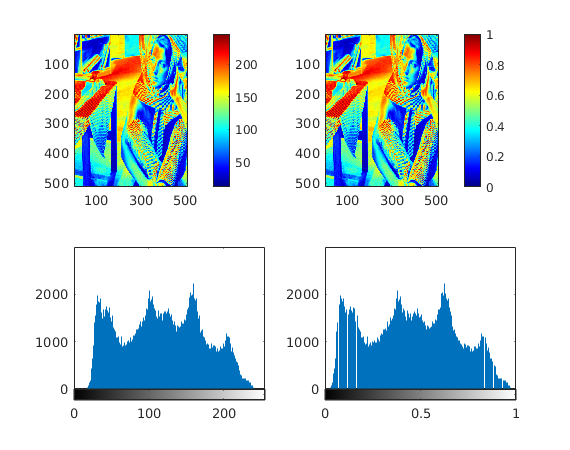
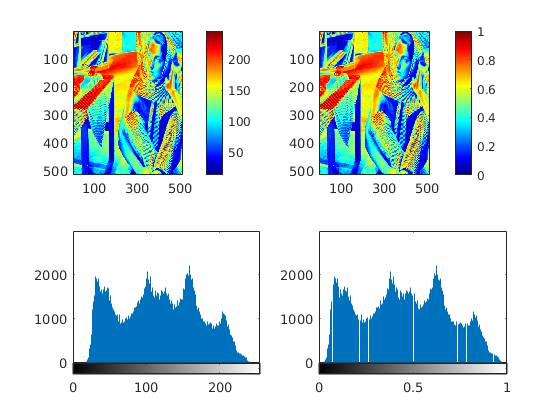
GHE Done

diff --git a/assignment1_GrayTrans/2/code/html/myMainScript.html b/assignment1_GrayTrans/2/code/html/myMainScript.html
@@ -6,7 +6,7 @@
    <!--
 This HTML was auto-generated from MATLAB code.
 To make changes, update the MATLAB code and republish this document.
-      --><title>Q2. Gray Scale Transforms on Images</title><meta name="generator" content="MATLAB 8.6"><link rel="schema.DC" href="http://purl.org/dc/elements/1.1/"><meta name="DC.date" content="2017-07-29"><meta name="DC.source" content="myMainScript.m"><style type="text/css">
+      --><title>Q2. Gray Scale Transforms on Images</title><meta name="generator" content="MATLAB 8.6"><link rel="schema.DC" href="http://purl.org/dc/elements/1.1/"><meta name="DC.date" content="2017-07-30"><meta name="DC.source" content="myMainScript.m"><style type="text/css">
 html,body,div,span,applet,object,iframe,h1,h2,h3,h4,h5,h6,p,blockquote,pre,a,abbr,acronym,address,big,cite,code,del,dfn,em,font,img,ins,kbd,q,s,samp,small,strike,strong,sub,sup,tt,var,b,u,i,center,dl,dt,dd,ol,ul,li,fieldset,form,label,legend,table,caption,tbody,tfoot,thead,tr,th,td{margin:0;padding:0;border:0;outline:0;font-size:100%;vertical-align:baseline;background:transparent}body{line-height:1}ol,ul{list-style:none}blockquote,q{quotes:none}blockquote:before,blockquote:after,q:before,q:after{content:'';content:none}:focus{outine:0}ins{text-decoration:none}del{text-decoration:line-through}table{border-collapse:collapse;border-spacing:0}
 
 html { min-height:100%; margin-bottom:1px; }
@@ -66,7 +66,7 @@ table td { padding:7px 5px; text-align:left; vertical-align:top; border:1px soli
 
 
 
-  </style></head><body><div class="content"><h1>Q2. Gray Scale Transforms on Images</h1><!--introduction--><p>Simple gray scale transforms on images.</p><!--/introduction--><h2>Contents</h2><div><ul><li><a href="#1">A. Linear Contrast Stretching</a></li></ul></div><h2>A. Linear Contrast Stretching<a name="1"></a></h2><pre class="language-matlab">
+  </style></head><body><div class="content"><h1>Q2. Gray Scale Transforms on Images</h1><!--introduction--><p>Simple gray scale transforms on images. Dhruv Ilesh Shah, Dhanvi Sreenivasan and Bhavesh Thakkar</p><!--/introduction--><h2>Contents</h2><div><ul><li><a href="#1">A. Linear Contrast Stretching</a></li><li><a href="#2">B. Global Histogram Equalization</a></li></ul></div><h2>A. Linear Contrast Stretching<a name="1"></a></h2><pre class="language-matlab">
 <span class="keyword">function</span> img = myLinearContrastStretching(org)
 <span class="comment">% Contrast Enhancement using Linear Contrast Stretching</span>
 <span class="comment">% Maps from current histogram to extended histogram, any aspect ratio</span>
@@ -104,11 +104,82 @@ subplot(2, 2, 1), imshow(org)
 subplot(2, 2, 2), imshow(img)
 subplot(2, 2, 3), imhist(org)
 subplot(2, 2 ,4), imhist(img)
-</pre><pre class="codeoutput">Elapsed time is 0.006925 seconds.
-</pre><img vspace="5" hspace="5" src="myMainScript_01.png" alt=""> <img vspace="5" hspace="5" src="myMainScript_02.png" alt=""> <p class="footer"><br><a href="http://www.mathworks.com/products/matlab/">Published with MATLAB&reg; R2015b</a><br></p></div><!--
+</pre><pre class="codeoutput">Elapsed time is 0.004583 seconds.
+</pre><img vspace="5" hspace="5" src="myMainScript_01.png" alt=""> <img vspace="5" hspace="5" src="myMainScript_02.png" alt=""> <h2>B. Global Histogram Equalization<a name="2"></a></h2><pre class="language-matlab">
+<span class="keyword">function</span> img = myHE(org)
+<span class="comment">% Performs global histogram equalization on the input image</span>
+
+mycdf = zeros(256, size(org, 3)); <span class="comment">% Treating channels independently</span>
+<span class="keyword">for</span> i = 1:size(org, 3)
+    mycdf(:, i) = cumsum(imhist(org(:,:,i))) / numel(org(:,:,1));
+<span class="keyword">end</span>
+
+<span class="comment">%img = arrayfun(mycdf(y, x), org);</span>
+<span class="comment">% arrayfun is not sped up by JIT compilation, and considerably slower in</span>
+<span class="comment">% this simple case, compared to naive loops. (ambiguous)</span>
+
+img = zeros(size(org)); <span class="comment">% Pre-allocating</span>
+<span class="keyword">for</span> k = 1:size(org, 3)
+    <span class="comment">% Computing independently for each channel</span>
+    cdfi = mycdf(:,k);
+    img(:,:,k) = cdfi(org(:,:,k) + 1);
+<span class="keyword">end</span>
+
+</pre><pre class="codeinput"><span class="comment">% Evaluating for given grayscale images:</span>
+org = imread(<span class="string">'../data/barbara.png'</span>);
+tic;
+img = myHE(org);
+toc;
+
+figure;
+colormap(jet(200));
+subplot(2, 2, 1), imagesc(org);
+colorbar;
+subplot(2, 2, 2), imagesc(img);
+colorbar;
+subplot(2, 2, 3), imhist(org);
+subplot(2, 2, 4), imhist(img);
+
+
+org = imread(<span class="string">'../data/TEM.png'</span>);
+tic;
+img = myHE(org);
+toc;
+
+figure;
+colormap(jet(200));
+subplot(2, 2, 1), imagesc(org);
+colorbar;
+subplot(2, 2, 2), imagesc(img);
+colorbar;
+subplot(2, 2, 3), imhist(org);
+subplot(2, 2, 4), imhist(img);
+
+<span class="comment">% Since the histogram for this image was already quite wide, we are unable</span>
+<span class="comment">% to appreciate the function of the algorithm. Let's look at this image instead.</span>
+org = imread(<span class="string">'satmap.png'</span>);
+img = myHE(org);
+
+figure
+subplot(2, 2, 1), imshow(org)
+subplot(2, 2, 2), imshow(img)
+subplot(2, 2, 3), imhist(org)
+subplot(2, 2 ,4), imhist(img)
+
+<span class="comment">% The function is highly modular and can be extended to RGB images as follows</span>
+org = imread(<span class="string">'../data/canyon.png'</span>);
+img = myHE(org);
+
+figure
+subplot(1,2,1), imshow(org);
+subplot(1,2,2), imshow(img);
+</pre><pre class="codeoutput">Elapsed time is 0.002437 seconds.
+Elapsed time is 0.003621 seconds.
+</pre><img vspace="5" hspace="5" src="myMainScript_03.png" alt=""> <img vspace="5" hspace="5" src="myMainScript_04.png" alt=""> <img vspace="5" hspace="5" src="myMainScript_05.png" alt=""> <img vspace="5" hspace="5" src="myMainScript_06.png" alt=""> <p class="footer"><br><a href="http://www.mathworks.com/products/matlab/">Published with MATLAB&reg; R2015b</a><br></p></div><!--
 ##### SOURCE BEGIN #####
 %% Q2. Gray Scale Transforms on Images
 % Simple gray scale transforms on images.
+% Dhruv Ilesh Shah, Dhanvi Sreenivasan and Bhavesh Thakkar
 
 %% A. Linear Contrast Stretching
 % <include>myLinearContrastStretching.m</include>
@@ -139,5 +210,56 @@ subplot(2, 2, 2), imshow(img)
 subplot(2, 2, 3), imhist(org)
 subplot(2, 2 ,4), imhist(img)
 
+%% B. Global Histogram Equalization
+% <include>myHE.m</include>
+
+% Evaluating for given grayscale images:
+org = imread('../data/barbara.png');
+tic;
+img = myHE(org);
+toc;
+
+figure;
+colormap(jet(200));
+subplot(2, 2, 1), imagesc(org);
+colorbar;
+subplot(2, 2, 2), imagesc(img);
+colorbar;
+subplot(2, 2, 3), imhist(org);
+subplot(2, 2, 4), imhist(img);
+
+
+org = imread('../data/TEM.png');
+tic;
+img = myHE(org);
+toc;
+
+figure;
+colormap(jet(200));
+subplot(2, 2, 1), imagesc(org);
+colorbar;
+subplot(2, 2, 2), imagesc(img);
+colorbar;
+subplot(2, 2, 3), imhist(org);
+subplot(2, 2, 4), imhist(img);
+
+% Since the histogram for this image was already quite wide, we are unable
+% to appreciate the function of the algorithm. Let's look at this image instead.
+org = imread('satmap.png');
+img = myHE(org);
+
+figure
+subplot(2, 2, 1), imshow(org)
+subplot(2, 2, 2), imshow(img)
+subplot(2, 2, 3), imhist(org)
+subplot(2, 2 ,4), imhist(img)
+
+% The function is highly modular and can be extended to RGB images as follows
+org = imread('../data/canyon.png');
+img = myHE(org);
+
+figure
+subplot(1,2,1), imshow(org);
+subplot(1,2,2), imshow(img);
 ##### SOURCE END #####
 --></body></html>

diff --git a/assignment1_GrayTrans/2/code/myMainScript.m b/assignment1_GrayTrans/2/code/myMainScript.m
@@ -1,5 +1,6 @@
 %% Q2. Gray Scale Transforms on Images
 % Simple gray scale transforms on images.
+% Dhruv Ilesh Shah, Dhanvi Sreenivasan and Bhavesh Thakkar
 
 %% A. Linear Contrast Stretching
 % <include>myLinearContrastStretching.m</include>
@@ -29,3 +30,55 @@ subplot(2, 2, 1), imshow(org)
 subplot(2, 2, 2), imshow(img)
 subplot(2, 2, 3), imhist(org)
 subplot(2, 2 ,4), imhist(img)
+
+%% B. Global Histogram Equalization
+% <include>myHE.m</include>
+
+% Evaluating for given grayscale images:
+org = imread('../data/barbara.png');
+tic;
+img = myHE(org);
+toc;
+
+figure;
+colormap(jet(200));
+subplot(2, 2, 1), imagesc(org);
+colorbar;
+subplot(2, 2, 2), imagesc(img);
+colorbar;
+subplot(2, 2, 3), imhist(org);
+subplot(2, 2, 4), imhist(img);
+
+
+org = imread('../data/TEM.png');
+tic;
+img = myHE(org);
+toc;
+
+figure;
+colormap(jet(200));
+subplot(2, 2, 1), imagesc(org);
+colorbar;
+subplot(2, 2, 2), imagesc(img);
+colorbar;
+subplot(2, 2, 3), imhist(org);
+subplot(2, 2, 4), imhist(img);
+
+% Since the histogram for this image was already quite wide, we are unable
+% to appreciate the function of the algorithm. Let's look at this image instead.
+org = imread('satmap.png');
+img = myHE(org);
+
+figure
+subplot(2, 2, 1), imshow(org)
+subplot(2, 2, 2), imshow(img)
+subplot(2, 2, 3), imhist(org)
+subplot(2, 2 ,4), imhist(img)
+
+% The function is highly modular and can be extended to RGB images as follows
+org = imread('../data/canyon.png');
+img = myHE(org);
+
+figure
+subplot(1,2,1), imshow(org);
+subplot(1,2,2), imshow(img);

diff --git a/assignment1_GrayTrans/2/code/myHE.m b/assignment1_GrayTrans/2/code/myHE.m
@@ -1,25 +1,18 @@
 function img = myHE(org)
-% Performs global histogram equalisation on the input image
-% One-D for now
+% Performs global histogram equalization on the input image
 
-mycdf = zeros(256, size(org, 3));
+mycdf = zeros(256, size(org, 3)); % Treating channels independently
 for i = 1:size(org, 3)
-    mycdf(:, i) = cumsum(imhist(org(:,:,i))) / (size(org, 1) * size(org, 2));
+    mycdf(:, i) = cumsum(imhist(org(:,:,i))) / numel(org(:,:,1));
 end
 
 %img = arrayfun(mycdf(y, x), org);
 % arrayfun is not sped up by JIT compilation, and considerably slower in
-% this simple case, compared to naive loops.
+% this simple case, compared to naive loops. (ambiguous)
 
 img = zeros(size(org)); % Pre-allocating
 for k = 1:size(org, 3)
-	for i = 1:size(org, 1)
-        for j = 1:size(org, 2)
-            if org(i, j, k)==0
-                img(i, j, k) = 0;
-            else
-                img(i, j, k) = mycdf(org(i, j, k), k);
-            end
-        end
-	end
+    % Computing independently for each channel
+    cdfi = mycdf(:,k);
+    img(:,:,k) = cdfi(org(:,:,k) + 1);
 end

diff --git a/assignment1_GrayTrans/2/code/comparehist.m b/assignment1_GrayTrans/2/code/comparehist.m
@@ -1,0 +1,10 @@
+org = imread('satmap.png');
+
+tic
+y1 = imhist(org);
+toc
+
+tic
+orgr = reshape(org, [], 1);
+y2 = hist(orgr, 0:255);
+toc
